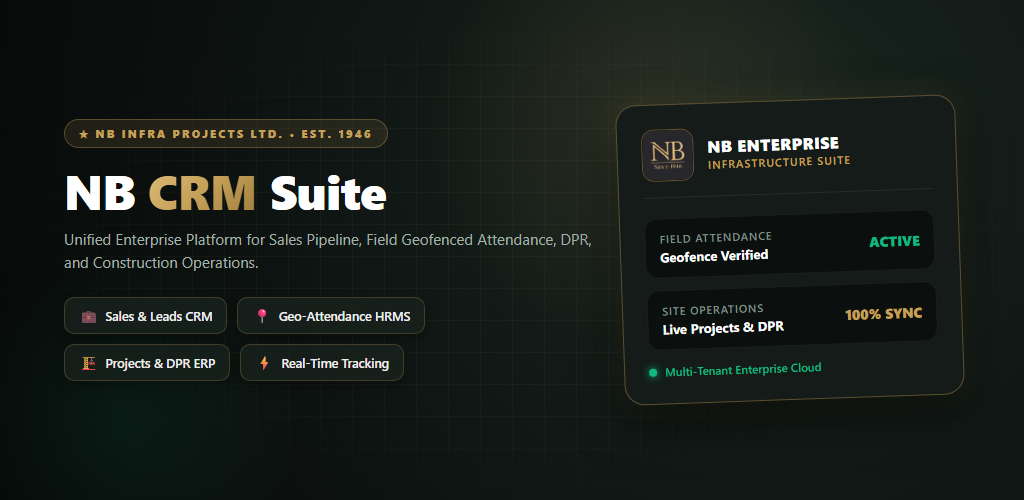
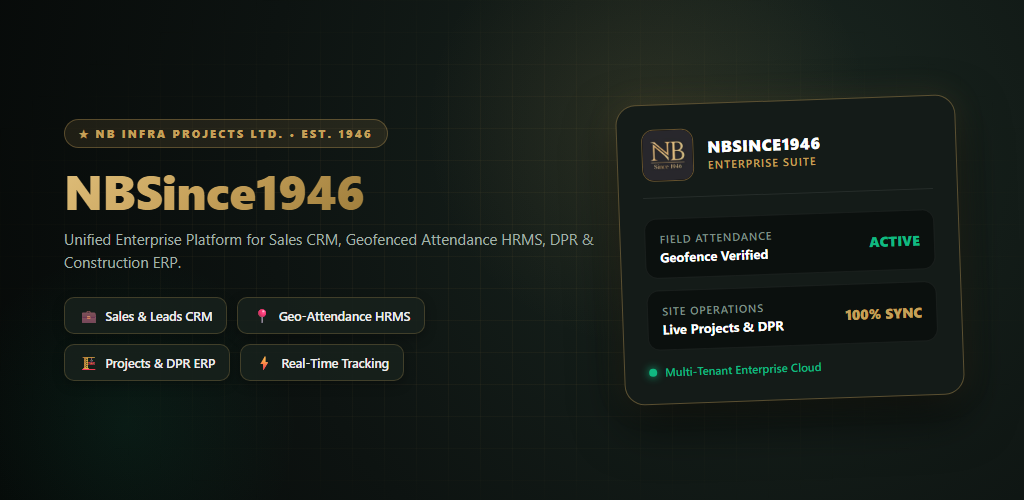
feat(branding): update app display name to NBSince1946 across Android, iOS, Web and Play Store graphic

diff --git a/nb_crm_flutter/web/index.html b/nb_crm_flutter/web/index.html
@@ -21,18 +21,18 @@
   <meta charset="UTF-8">
   <meta content="IE=Edge" http-equiv="X-UA-Compatible">
   <meta name="viewport" content="width=device-width, initial-scale=1.0">
-  <meta name="description" content="NB CRM — CRM, HRMS and ERP.">
+  <meta name="description" content="NBSince1946 — CRM, HRMS and ERP.">
 
   <!-- iOS meta tags & icons -->
   <meta name="mobile-web-app-capable" content="yes">
   <meta name="apple-mobile-web-app-status-bar-style" content="black">
-  <meta name="apple-mobile-web-app-title" content="NB CRM">
+  <meta name="apple-mobile-web-app-title" content="NBSince1946">
   <link rel="apple-touch-icon" href="icons/Icon-192.png">
 
   <!-- Favicon -->
   <link rel="icon" type="image/png" href="favicon.png"/>
 
-  <title>NB CRM</title>
+  <title>NBSince1946</title>
   <link rel="manifest" href="manifest.json">
   <link rel="preload" as="image" href="mrnb_splash.webp" type="image/webp">
   <style>

diff --git a/nb_crm_flutter/lib/main.dart b/nb_crm_flutter/lib/main.dart
@@ -155,7 +155,7 @@ class NbCrmApp extends StatelessWidget {
       buildWhen: (previous, current) => previous != current,
       builder: (context, themeMode) {
         return MaterialApp.router(
-          title: 'NB CRM',
+          title: 'NBSince1946',
           debugShowCheckedModeBanner: false,
           theme: AppTheme.light(),
           darkTheme: AppTheme.dark(),
